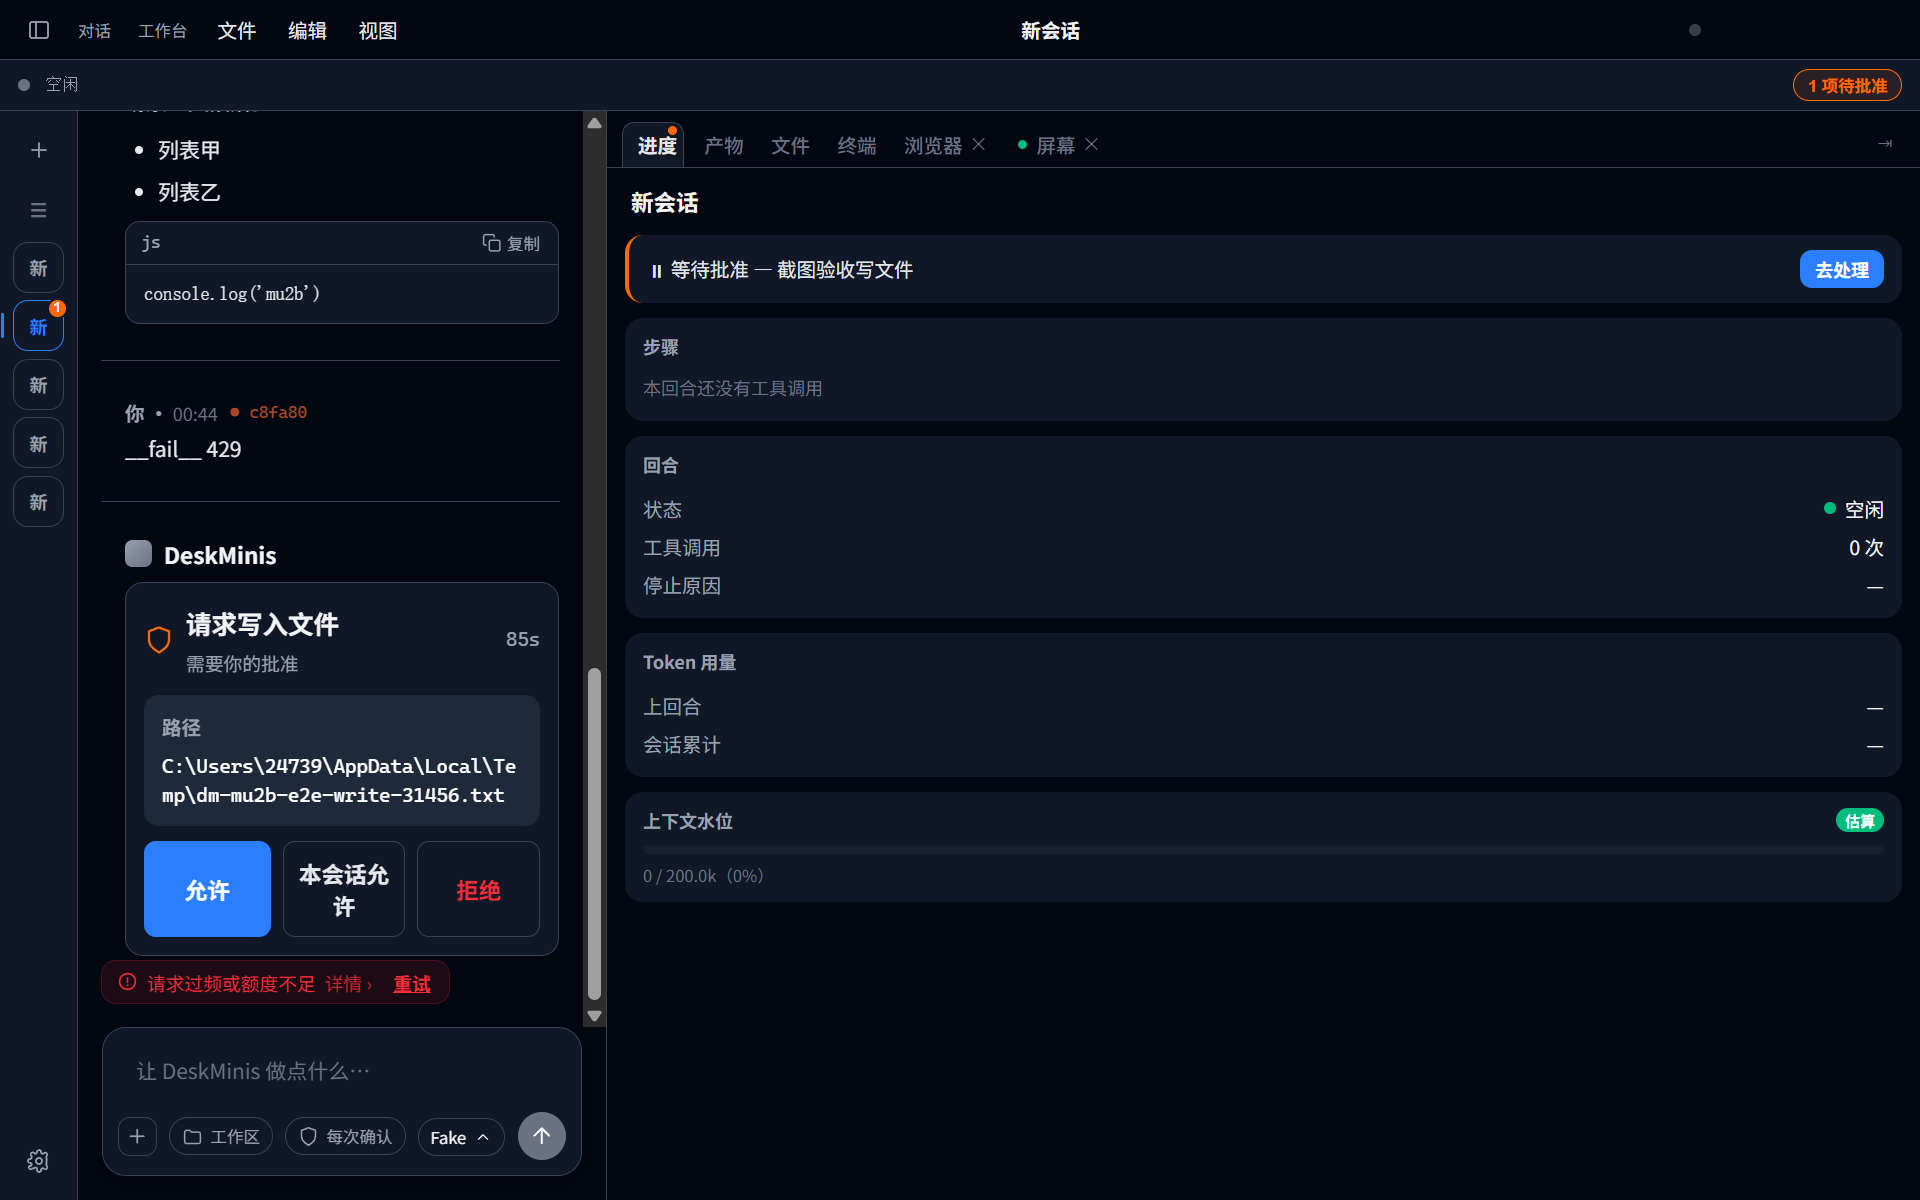
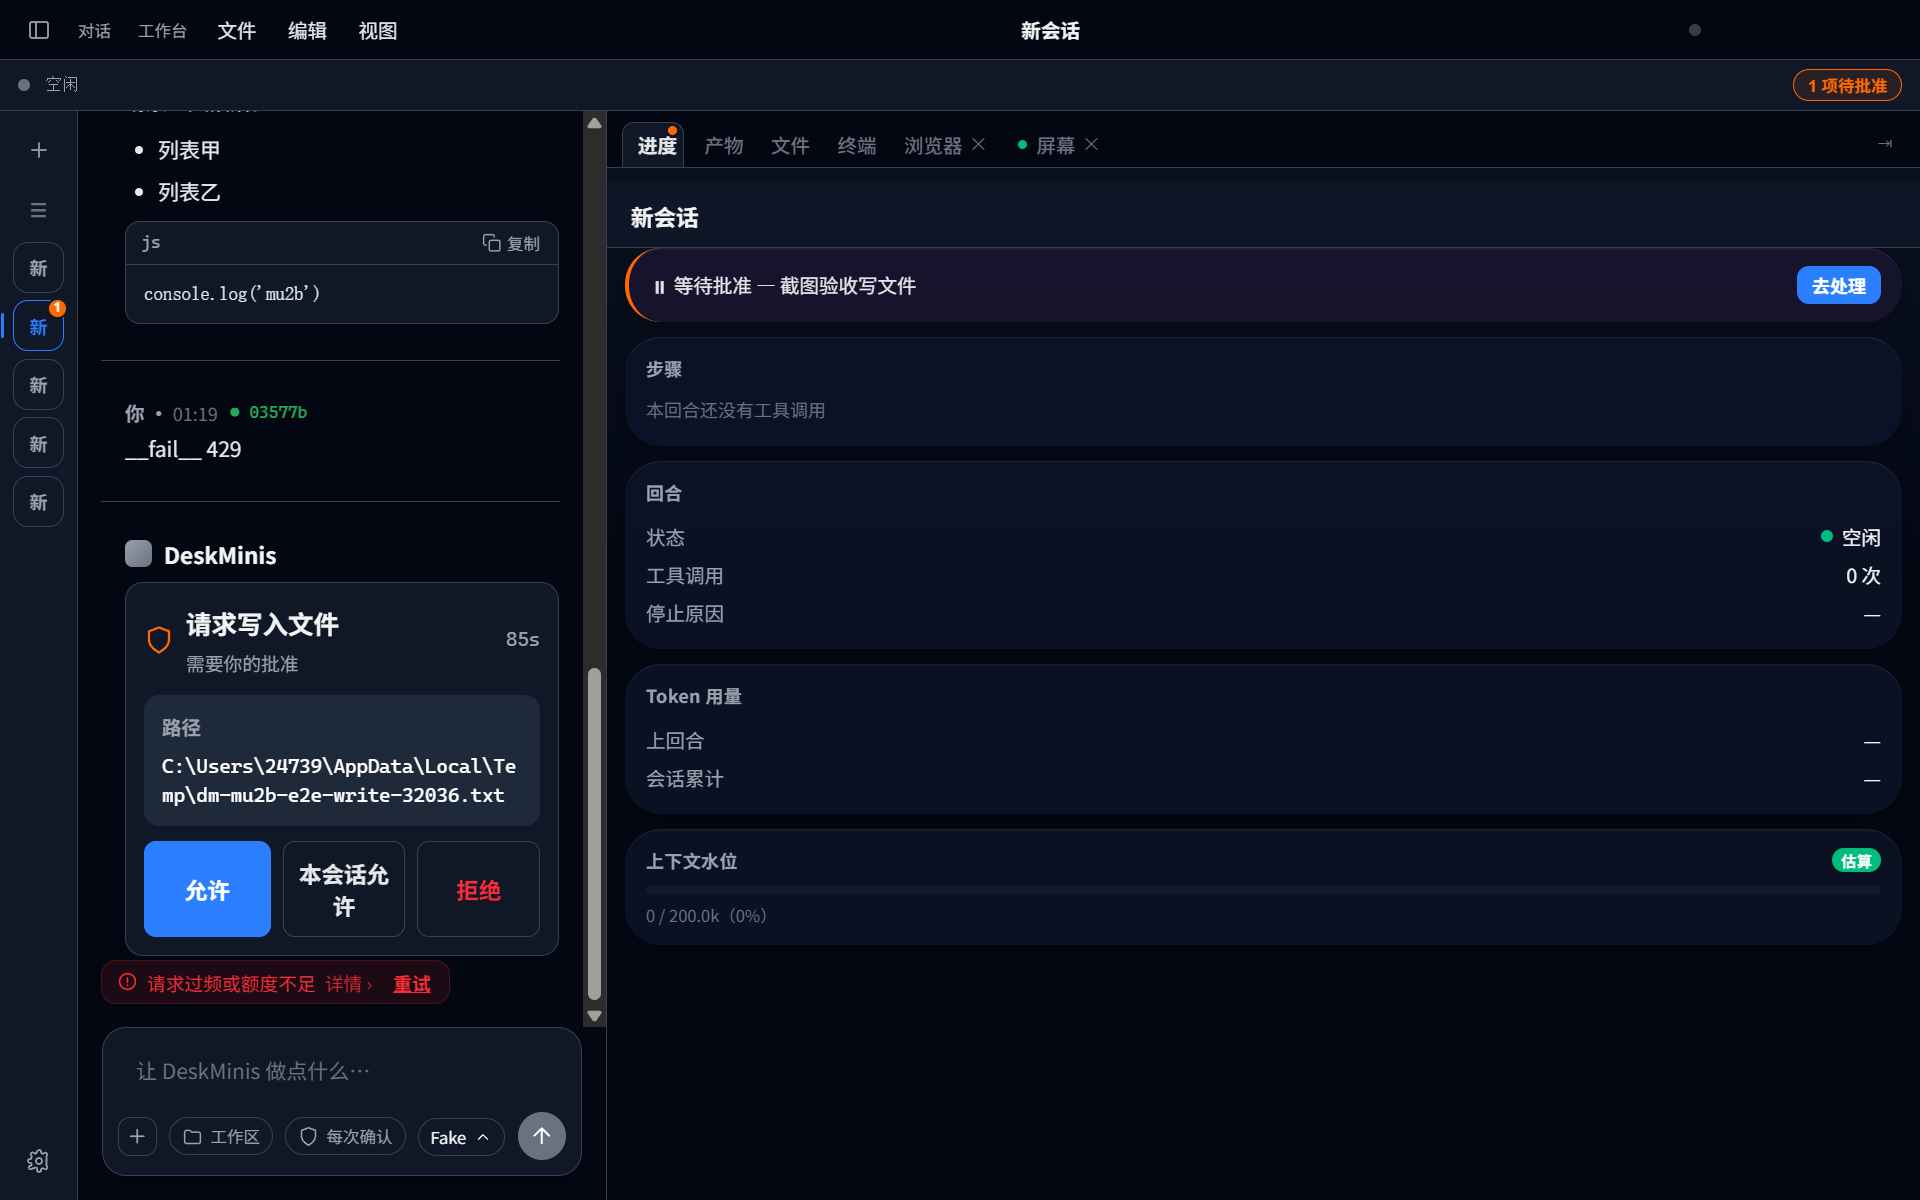
feat(ui): 进度面板改苹果磨砂玻璃质感；两条 MU3 守卫收窄不删除
用户 2026-08-10：进度功能区不够苹果风格科技感，要磨砂玻璃。

这是**定向推翻 MU3 的一个明确决定**（材质层整体退场）。故不偷偷删守卫，而是收窄，
把当初立它的安全理由原样保住。

三条落地要点，缺一条磨砂就只是「加了个看不见的 blur」：
1. 面板底给极淡渐变 —— 半透明卡片背后得有东西可透，压在纯色上模糊了等于没模糊
2. 标题改**吸顶**，卡片从它下面滚过去 —— 这才是 backdrop-filter 真正显形的地方
3. 卡片靠「半透明 + 顶部内高光 + 柔和投影」造厚度，而不是描边 —— 边框是平面语言
另加：进行中的步骤带 drop-shadow 辉光（玻璃质感下纯闪烁读不出来）

tokens.css C 区新增玻璃组，全部用 color-mix 从既有语义令牌派生：
不碰 A 区 raw 值、自动跟随明暗、组件内零 hex/rgba（例 9 继续成立）。

两条守卫收窄（均保留原有安全约束）：
- 例 5「tokens.css 全文不含 color-mix」→「仅玻璃块放行」。MU3 命门 3 的论证是**针对状态色**的：
  Appica raw 层本就提供 -subtle 10% / -soft 20%，再 color-mix 派生既冗余又绕开「raw 值唯一来源」。
  该论证对玻璃不成立——Appica 没有 58%/78% 这两档，而玻璃必须跟随明暗。
  状态色那条纪律一点没松，并追加「玻璃块内的 color-mix 只许拿语义令牌当原料」。
- 例 8「全部 .vue 零 backdrop-filter」→ 白名单制。安全约束反而加强了：
  新增「带弹出层的组件永久禁用」双保险断言（TitleBar/ModelPicker/PermissionPicker/
  SettingsModal/DevicesModal/ChatView/SessionList），因为 backdrop-filter 会创建层叠上下文、
  把弹层压在下面——TitleBar 当年就是这么中招的，MU5 §15 又刚因同族问题吃过一次。
  renderer-titlebar-stacking 那条禁令原样不动。

验证：npm test 1068/1068；build 三产物；e2e:mu2b 8/8，进度面板明暗两态实拍确认。

顺带记一笔：改动过程中有一轮跑出两例红，正是此前记录「未能复现」的那两个
（minisd 桥装配 / 真实 PowerShell 集成，用例名自带「跨文件互斥」），
下一轮自行转绿——坐实是 M2e 记录在案的剪贴板竞态，与本次改动无关。

diff --git a/deskminis/src/renderer/src/components/ProgressPanel.vue b/deskminis/src/renderer/src/components/ProgressPanel.vue
@@ -171,18 +171,50 @@ function fmt(n: number): string {
 </template>
 
 <style scoped>
-.ppanel { flex: 1; min-height: 0; overflow: auto; padding: 10px 12px; display: flex; flex-direction: column; gap: 10px; }
+/* 磨砂玻璃（2026-08-10 用户要求）。三条落地要点，缺一条就只是「加了个看不见的 blur」：
+   ① 面板底给极淡渐变——半透明卡片背后得有东西可透，压在纯色上模糊了也等于没模糊；
+   ② 标题做**吸顶**，卡片从它下面滚过去，这才是 backdrop-filter 真正显形的地方；
+   ③ 卡片靠「半透明 + 顶部内高光 + 柔和投影」造厚度，而不是描边——边框是平面语言。 */
+.ppanel {
+  flex: 1; min-height: 0; overflow: auto; padding: 10px 12px;
+  display: flex; flex-direction: column; gap: 10px;
+  background: var(--glass-ground);
+}
 .phint { font-size: var(--fs-caption); color: var(--label-tertiary); padding: 12px; text-align: center; line-height: 1.6; }
-.ptask { font-size: var(--fs-title); font-weight: 600; color: var(--label-strong); padding: 2px 4px; line-height: 1.4; }
-.psec { background: var(--surface-1); border-radius: var(--r-card); padding: 10px 12px; }
-.psec.pending { border-left: 3px solid var(--state-warn); }
+/* 吸顶玻璃头：负外边距把它撑到面板边缘，top:0 贴住滚动视口顶。
+   z-index 只在 .ppanel 内部生效——本面板没有弹出层，不会重演 TitleBar 的层叠上下文陷阱。 */
+.ptask {
+  position: sticky; top: 0; z-index: 2;
+  margin: -10px -12px 0; padding: 12px 16px 10px;
+  font-size: var(--fs-title); font-weight: 600; color: var(--label-strong); line-height: 1.4;
+  background: var(--glass-thick);
+  backdrop-filter: var(--glass-blur);
+  -webkit-backdrop-filter: var(--glass-blur);
+  border-bottom: .5px solid var(--separator);
+}
+.psec {
+  background: var(--glass-thin);
+  backdrop-filter: var(--glass-blur);
+  -webkit-backdrop-filter: var(--glass-blur);
+  border-radius: var(--r-sheet);
+  padding: 12px 14px;
+  /* 顶部那道内高光是「有厚度」的关键：比加一圈边框克制，也更像玻璃的受光边 */
+  box-shadow: inset 0 1px 0 var(--glass-edge), var(--shadow-fab);
+}
+.psec.pending {
+  border-left: 3px solid var(--state-warn);
+  background: color-mix(in oklch, var(--state-warn-bg) 55%, var(--glass-thin));
+}
 .pending-row { display: flex; align-items: center; justify-content: space-between; gap: 8px; }
 .pending-text { font-size: var(--fs-ui); color: var(--label); line-height: 1.5; }
 .gobtn {
   flex: 0 0 auto; border: none; border-radius: var(--r-control); padding: 4px 10px; cursor: pointer;
   background: var(--action); color: var(--on-action); font-size: var(--fs-caption); font-weight: 600;
 }
-.phead { font-size: var(--fs-caption); font-weight: 600; color: var(--label-secondary); margin-bottom: 8px; display: flex; align-items: center; gap: 6px; }
+.phead {
+  font-size: var(--fs-caption); font-weight: 600; color: var(--label-secondary);
+  letter-spacing: .02em; margin-bottom: 8px; display: flex; align-items: center; gap: 6px;
+}
 .eicon { font-weight: 700; }
 .ebody { font-size: var(--fs-caption); color: var(--label); line-height: 1.5; }
 .pempty { font-size: var(--fs-caption); color: var(--label-tertiary); padding: 2px 0 4px; }
@@ -190,7 +222,11 @@ function fmt(n: number): string {
 .sicon { flex: 0 0 auto; width: 16px; text-align: center; font-size: var(--fs-caption); }
 .sicon.ok { color: var(--state-ok); }
 .sicon.fail { color: var(--state-err); }
-.sicon.run { color: var(--state-warn); animation: pulse 1.2s ease-in-out infinite; }
+/* 进行中的步骤带一点辉光——玻璃质感下，纯闪烁不如「发光」读得出来 */
+.sicon.run {
+  color: var(--state-warn); animation: pulse 1.2s ease-in-out infinite;
+  filter: drop-shadow(0 0 4px var(--state-warn-border));
+}
 .stitle { flex: 1; min-width: 0; color: var(--label); overflow: hidden; text-overflow: ellipsis; white-space: nowrap; }
 .sdur { flex: 0 0 auto; color: var(--label-tertiary); font-family: var(--font-mono); font-size: var(--fs-mono); font-variant-numeric: tabular-nums; }
 .pbadge { margin-left: auto; font-size: 10px; color: var(--on-action); padding: 1px 6px; border-radius: 999px; }

diff --git a/deskminis/tests/tokens-mu3-appica.test.ts b/deskminis/tests/tokens-mu3-appica.test.ts
@@ -167,8 +167,22 @@ describe('MU3 Appica 移植守卫（12 例）', () => {
     expect(rootLight).toContain('--label-intense: var(--foreground-intense);');
   });
 
-  it('5. color-mix 清零：tokens.css 全文不含 color-mix（命门 3 选 B：Appica 直给 alpha）', () => {
-    expect(tokens).not.toContain('color-mix');
+  it('5. color-mix 仅限玻璃块：其余全文清零（命门 3 选 B：状态色走 Appica 直给 alpha）', () => {
+    // MU3 命门 3 的论证是**针对状态色**的：Appica raw 层本就提供 -subtle 10% / -soft 20%，
+    // 再用 color-mix 派生既冗余、又绕开了「raw 值是唯一来源」的纪律。
+    // 该论证对玻璃材质不成立——Appica 没有 58%/78% 这两档，而玻璃又必须跟随明暗，
+    // 只能从语义令牌派生。故 2026-08-10（用户要求苹果磨砂风格）把本条收窄为
+    // 「玻璃块内放行、其余仍然清零」，而不是删掉它：状态色那条纪律一点没松。
+    const b = tokens.indexOf('glass:begin');
+    const e = tokens.indexOf('glass:end');
+    expect(b).toBeGreaterThan(-1);
+    expect(e).toBeGreaterThan(b);
+    const outsideGlass = tokens.slice(0, b) + tokens.slice(e);
+    expect(outsideGlass).not.toContain('color-mix');
+    // 玻璃块里的 color-mix 只许拿**语义令牌**当原料，不许直接写 raw 色值
+    const glass = tokens.slice(b, e);
+    expect(glass).not.toMatch(/color-mix\([^)]*oklch\(/);
+    expect(glass).not.toMatch(/color-mix\([^)]*#[0-9a-fA-F]{3,8}/);
   });
 
   it('6. material 清零：tokens.css 全文不含 --material（组件侧滤镜由例 8 守）', () => {
@@ -185,14 +199,28 @@ describe('MU3 Appica 移植守卫（12 例）', () => {
     expect(rootLight).toContain('--r-pill: 999px;');
   });
 
-  it('8. 组件侧 backdrop-filter 清零：walk 全部 .vue 的 <style> 块零命中（§3-4 配套加宽）', () => {
+  it('8. backdrop-filter 白名单制：仅登记组件可用，且带弹出层的组件一律禁止', () => {
+    // MU3 原为「全部 .vue 零命中」。2026-08-10 用户要求苹果磨砂风格，本条由**一刀切**改为
+    // **白名单**——但安全约束一点没松：backdrop-filter 会创建**层叠上下文**，
+    // 凡是身上有下拉菜单/弹层的组件用了它，弹层就会被压在下面。
+    // TitleBar 当年就是这么中招的（renderer-titlebar-stacking 有实测取证），
+    // MU5 §15 又刚因为同族问题（容器裁剪弹层）吃过一次「点了没反应」。
+    const ALLOW = ['ProgressPanel'];
+    // 这些组件自带弹出层/浮层，永久禁用——加进 ALLOW 也不行，下面单独再断言一次
+    const POPUP_OWNERS = ['TitleBar', 'ModelPicker', 'PermissionPicker', 'SettingsModal', 'DevicesModal', 'ChatView', 'SessionList'];
     const offenders: string[] = [];
+    const usedGlass: string[] = [];
     for (const f of vueFiles) {
+      const name = rel(f).replace(/^.*[\/]/, '').replace(/\.vue$/, '');
       styleBlocks(R(f)).forEach((b, i) => {
-        if (b.includes('backdrop-filter')) offenders.push(`${rel(f)} <style>#${i + 1}`);
+        if (!b.includes('backdrop-filter')) return;
+        usedGlass.push(name);
+        if (!ALLOW.includes(name)) offenders.push(`${rel(f)} <style>#${i + 1}`);
       });
     }
     expect(offenders).toEqual([]);
+    // 双保险：白名单将来被人随手加宽时，这条仍会把「给弹层宿主上滤镜」拦下
+    expect(usedGlass.filter(n => POPUP_OWNERS.includes(n))).toEqual([]);
   });
 
   it('9. 组件零硬编码颜色：<style> 块无 hex/rgba；TerminalPanel xterm 兜底值登记白名单', () => {

diff --git a/deskminis/src/renderer/src/styles/tokens.css b/deskminis/src/renderer/src/styles/tokens.css
@@ -202,6 +202,27 @@
      不子集化的理由：agent 输出的字符集不可预知，子集会掉生僻字且难复现（v4 §5）。 */
   --font-ui: -apple-system, "SF Pro Text", "Segoe UI Variable", "Noto Sans SC", system-ui, "Microsoft YaHei", sans-serif;
   --font-mono: "SF Mono", ui-monospace, "Cascadia Code", Menlo, Consolas, monospace;
+  /* glass:begin —— 切片标记，守卫例 5 靠它把玻璃块单独摘出来 */
+  /* ===== 玻璃材质（2026-08-10，用户要求苹果磨砂风格）=====
+     MU3 曾把材质层整体退场；本组是**按用户要求的定向恢复**，范围受守卫例 8 白名单约束。
+
+     全部用 color-mix 从既有语义令牌调出，因此：
+     ① 不碰 A 区 raw 值；② 自动跟随明暗（surface-1 本身是主题感知的）；
+     ③ 组件里不出现任何 hex/rgba，例 9「零硬编码颜色」继续成立。
+
+     ⚠ backdrop-filter 会创建**层叠上下文**——凡是身上有弹出层/下拉菜单的容器一律不许用，
+     否则弹层会被压在下面（TitleBar 当年就是这么中招的，见 renderer-titlebar-stacking）。 */
+  --glass-thin: color-mix(in oklch, var(--surface-1) 58%, transparent);
+  --glass-thick: color-mix(in oklch, var(--surface-1) 78%, transparent);
+  --glass-blur: saturate(180%) blur(20px);
+  /* 顶部内高光：玻璃边缘那道细亮线，是「有厚度」的关键，比加边框克制得多 */
+  --glass-edge: color-mix(in oklch, var(--label) 7%, transparent);
+  /* 面板底的极淡渐变——半透明卡片得有东西可透，压在纯色上等于没做 */
+  --glass-ground: linear-gradient(180deg,
+    color-mix(in oklch, var(--bg-secondary) 60%, var(--bg)) 0%,
+    var(--bg) 42%);
+  /* glass:end */
+
   /* 字号尺度（桌面密度基线 14） */
   --fs-display: 17px;   /* 设置页标题 */
   --fs-title:   15px;   /* 面板头、卡片标题 */
